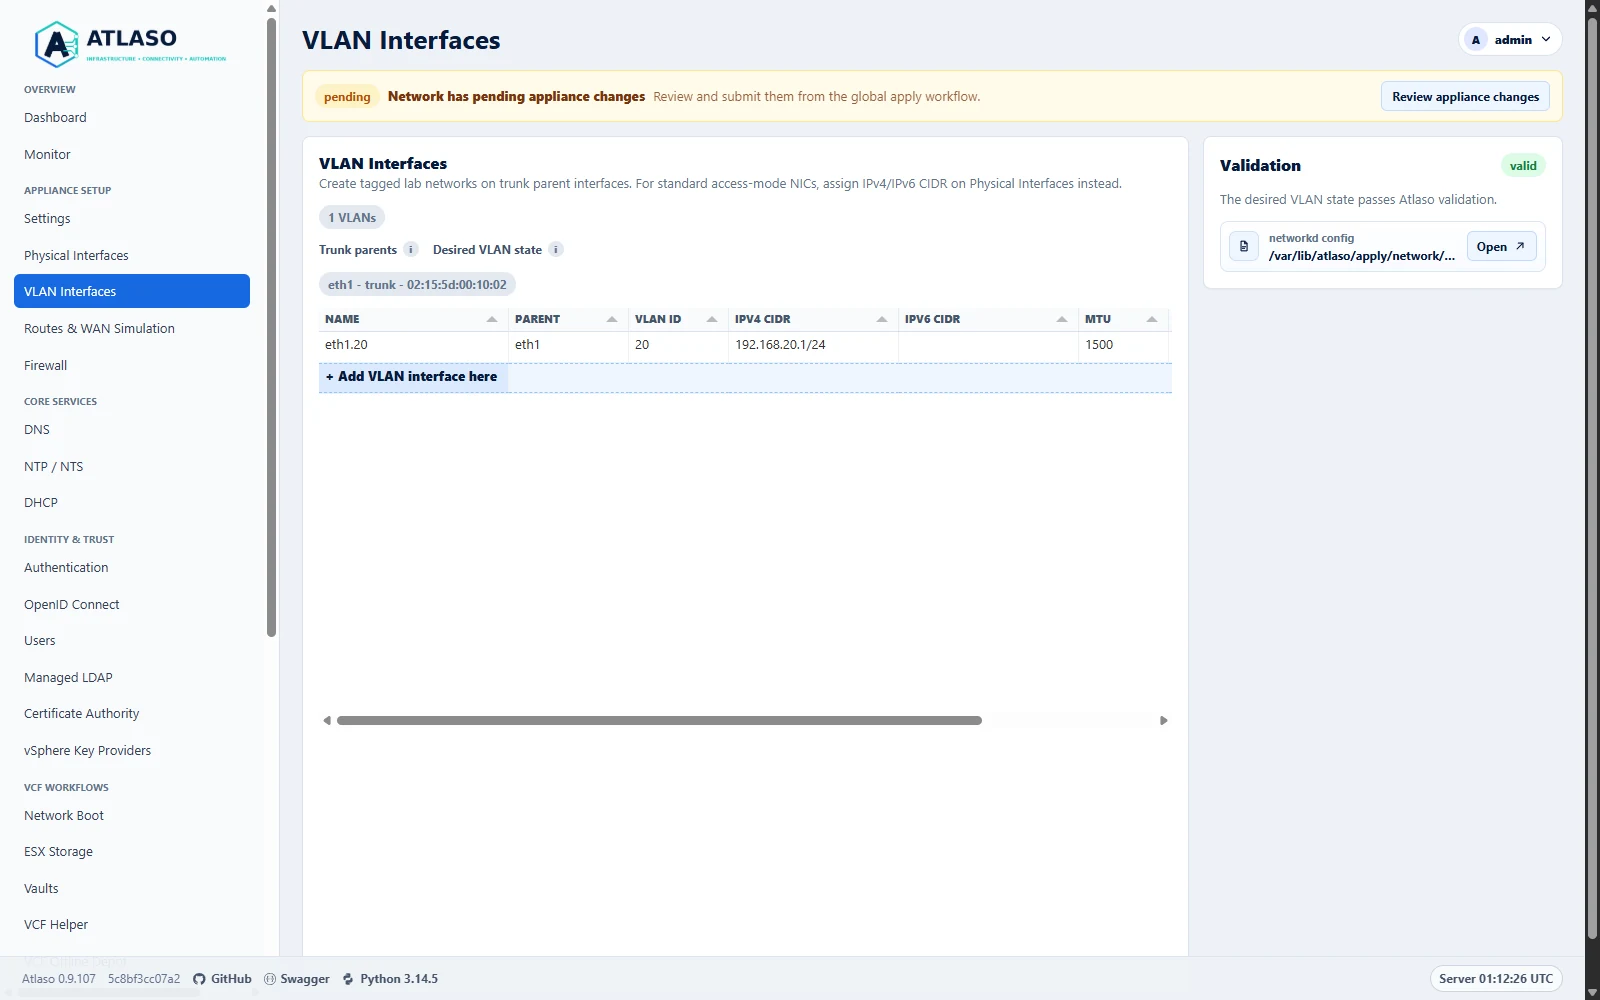
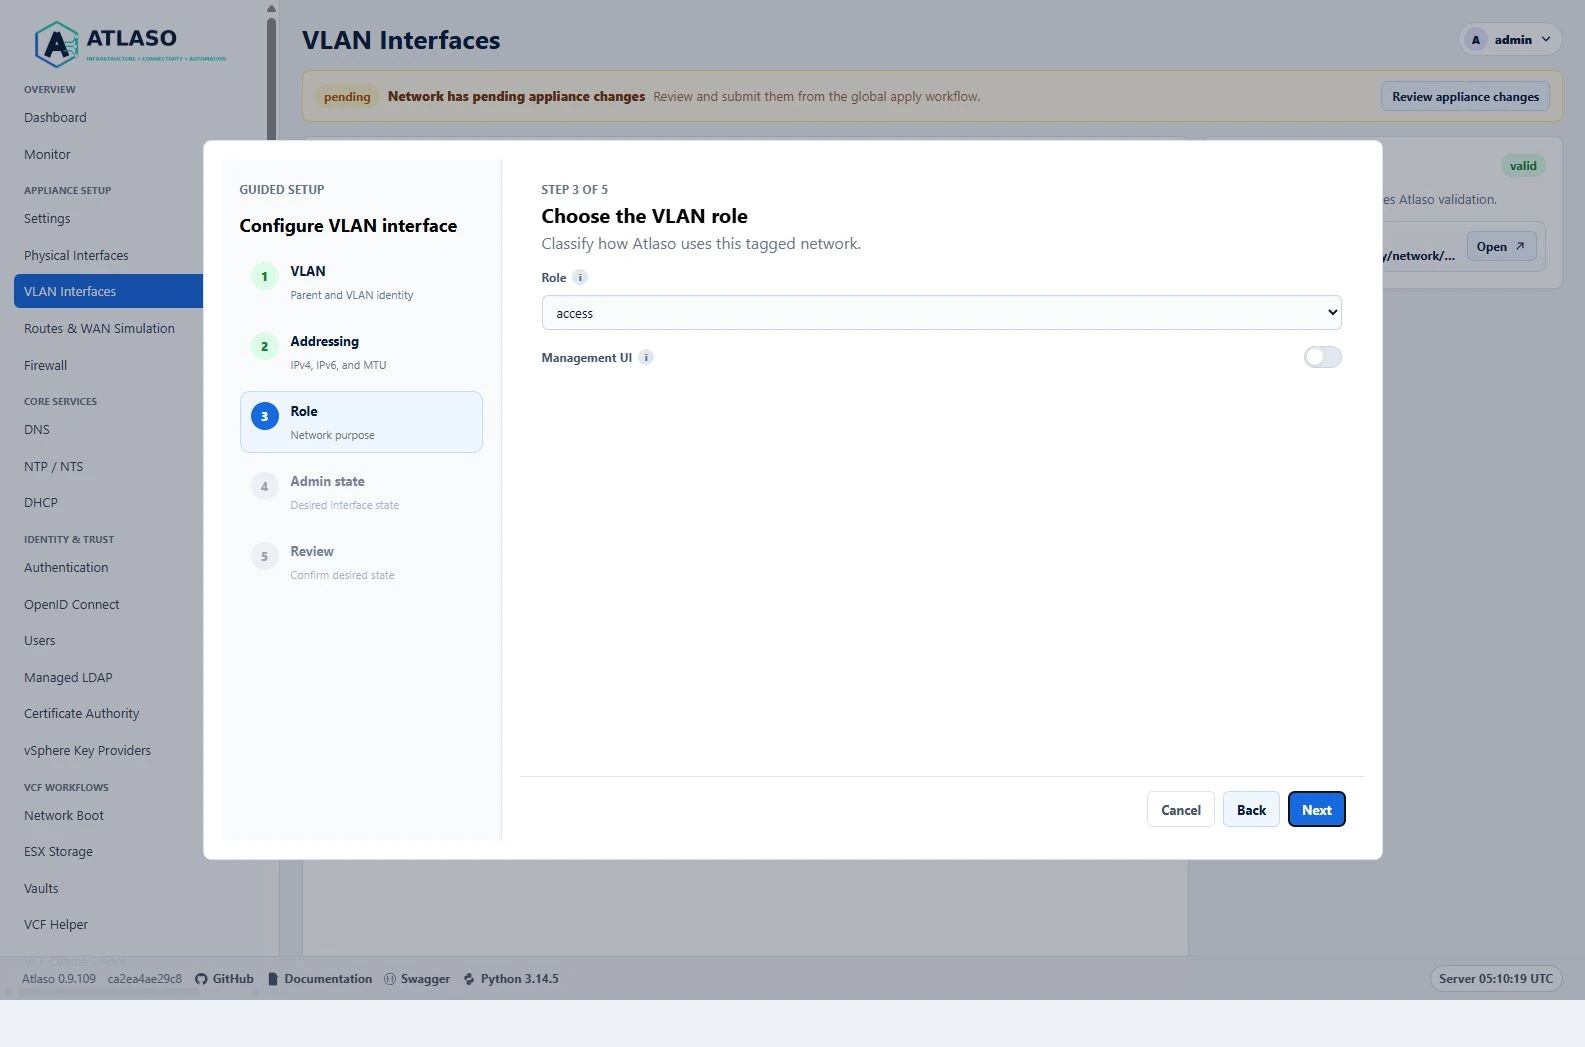
Update VLAN wizard for current main

diff --git a/tests/test_ui.py b/tests/test_ui.py
@@ -14562,6 +14562,7 @@ def test_vlan_interface_create_edit_delete_and_apply(client):
         "mtu": 1600,
         "role": "storage",
         "enabled": True,
+        "access_management_ui_enabled": False,
         "parent_missing": False,
     }
 
@@ -14893,6 +14894,45 @@ def test_vlan_interface_wizard_supports_ipv6_only_disabled_creation_and_duplicat
     )
     assert duplicate.status_code == 409
     assert duplicate.json() == {"detail": "VLAN eth1.81 already exists."}
+
+
+def test_vlan_interface_wizard_saves_management_ui_state_only_for_access_role(client):
+    """Verify management UI exposure is reviewed with the complete VLAN record.
+
+    Args:
+        client: Authenticated UI test client fixture.
+    """
+    login(client)
+    page = client.get("/vlan-interfaces")
+    csrf = page.text.split('name="csrf" value="', 1)[1].split('"', 1)[0]
+    data = {
+        "parent_interface": "eth1",
+        "vlan_id": "83",
+        "ip_cidr": "192.168.83.1/24",
+        "ipv6_cidr": "",
+        "mtu": "1500",
+        "role": "access",
+        "access_management_ui_enabled": "on",
+        "enabled": "on",
+        "csrf": csrf,
+    }
+    created = client.post(
+        "/vlan-interfaces",
+        data=data,
+        headers={"X-Atlaso-Grid": "1", "Accept": "application/json"},
+    )
+    assert created.status_code == 200
+    assert created.json()["vlan"]["access_management_ui_enabled"] is True
+
+    rejected = client.post(
+        f"/vlan-interfaces/{created.json()['vlan']['id']}/edit",
+        data={**data, "role": "storage"},
+        headers={"X-Atlaso-Grid": "1", "Accept": "application/json"},
+    )
+    assert rejected.status_code == 422
+    assert rejected.json() == {
+        "detail": "Management UI exposure is available only for an access-role VLAN."
+    }
 
 
 def test_vlan_interface_wizard_respects_read_only_permissions(client):

diff --git a/docs/operate/networking.md b/docs/operate/networking.md
@@ -114,12 +114,12 @@ These captures show responsive layouts and useful operational states referenced 
 
 ### VLAN interfaces
 
-![Atlaso VLAN Interfaces page showing the access VLAN management UI option.](../assets/screenshots/vlan-interfaces-clean-desktop.webp)
+![Atlaso VLAN Interfaces add wizard Role step with the Management UI switch.](../assets/screenshots/vlan-interfaces-clean-desktop.webp)
 
-*Figure: VLAN Interfaces showing optional access management UI exposure in the verified appliance desktop state.*
+*Figure: VLAN Interfaces shared Role step showing access management UI desired state in the verified appliance desktop state.*
 
-![Responsive Atlaso VLAN Interfaces page showing the access VLAN management UI option.](../assets/screenshots/vlan-interfaces-clean-responsive.webp)
+![Atlaso VLAN Interfaces page in the clean-appliance responsive viewport.](../assets/screenshots/vlan-interfaces-clean-responsive.webp)
 
-*Figure: VLAN Interfaces management UI option in the verified appliance responsive state.*
+*Figure: VLAN Interfaces in the verified clean-appliance responsive state.*
 
 <!-- END GENERATED ADDITIONAL SCREENSHOTS -->

diff --git a/docs/reference/interface-gallery.md b/docs/reference/interface-gallery.md
@@ -567,13 +567,13 @@ Figure: VCF Private Registry in the verified clean-appliance responsive state.
 
 Route: `/ui/management/vlan-interfaces`
 
-![Atlaso VLAN Interfaces wizard-backed grid showing access management UI desired state.](../assets/screenshots/vlan-interfaces-clean-desktop.webp)
+![Atlaso VLAN Interfaces add wizard Role step with the Management UI switch.](../assets/screenshots/vlan-interfaces-clean-desktop.webp)
 
-Figure: VLAN Interfaces read-only grid and add wizard in the verified appliance desktop state.
+Figure: VLAN Interfaces shared Role step showing access management UI desired state in the verified appliance desktop state.
 
-![Responsive Atlaso VLAN Interfaces wizard showing access management UI desired state.](../assets/screenshots/vlan-interfaces-clean-responsive.webp)
+![Atlaso VLAN Interfaces page in the clean-appliance responsive viewport.](../assets/screenshots/vlan-interfaces-clean-responsive.webp)
 
-Figure: VLAN Interfaces shared add wizard in the verified appliance responsive state.
+Figure: VLAN Interfaces in the verified clean-appliance responsive state.
 
 ## Vsphere Key Providers
 
